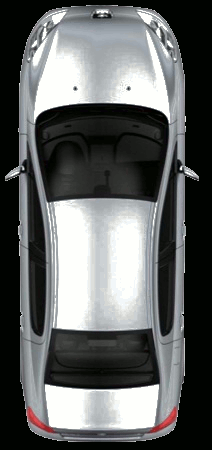
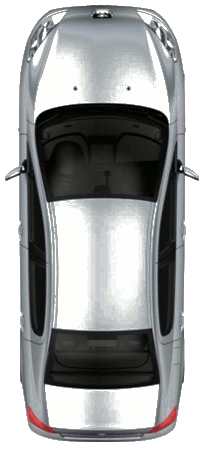
alfa channel añadido al rendering

Changed region(s): [[0.0, 0.0, 1.0, 1.0]]

diff --git a/common/car.cpp b/common/car.cpp
@@ -92,10 +92,7 @@ void Car::initBuffers () {
 	glTexParameteri(GL_TEXTURE_2D, GL_TEXTURE_MAG_FILTER, GL_NEAREST);
 	glTexParameteri(GL_TEXTURE_2D, GL_TEXTURE_MIN_FILTER, GL_NEAREST);
 
-
 	SOIL_free_image_data(image);
-
-
 
 	setVao (vao); setBuffer (buffer); setTexture (texture);
 

diff --git a/canvas.cpp b/canvas.cpp
@@ -34,6 +34,8 @@ void timerFunction (int value) {
 
 
 void init () {
+	glEnable (GL_BLEND);
+	glBlendFunc (GL_SRC_ALPHA, GL_ONE_MINUS_SRC_ALPHA);
 	glClearColor(0.0f, 0.0f, 0.0f, 1.0f);
 
 	ShaderInfo shaders[] = {
